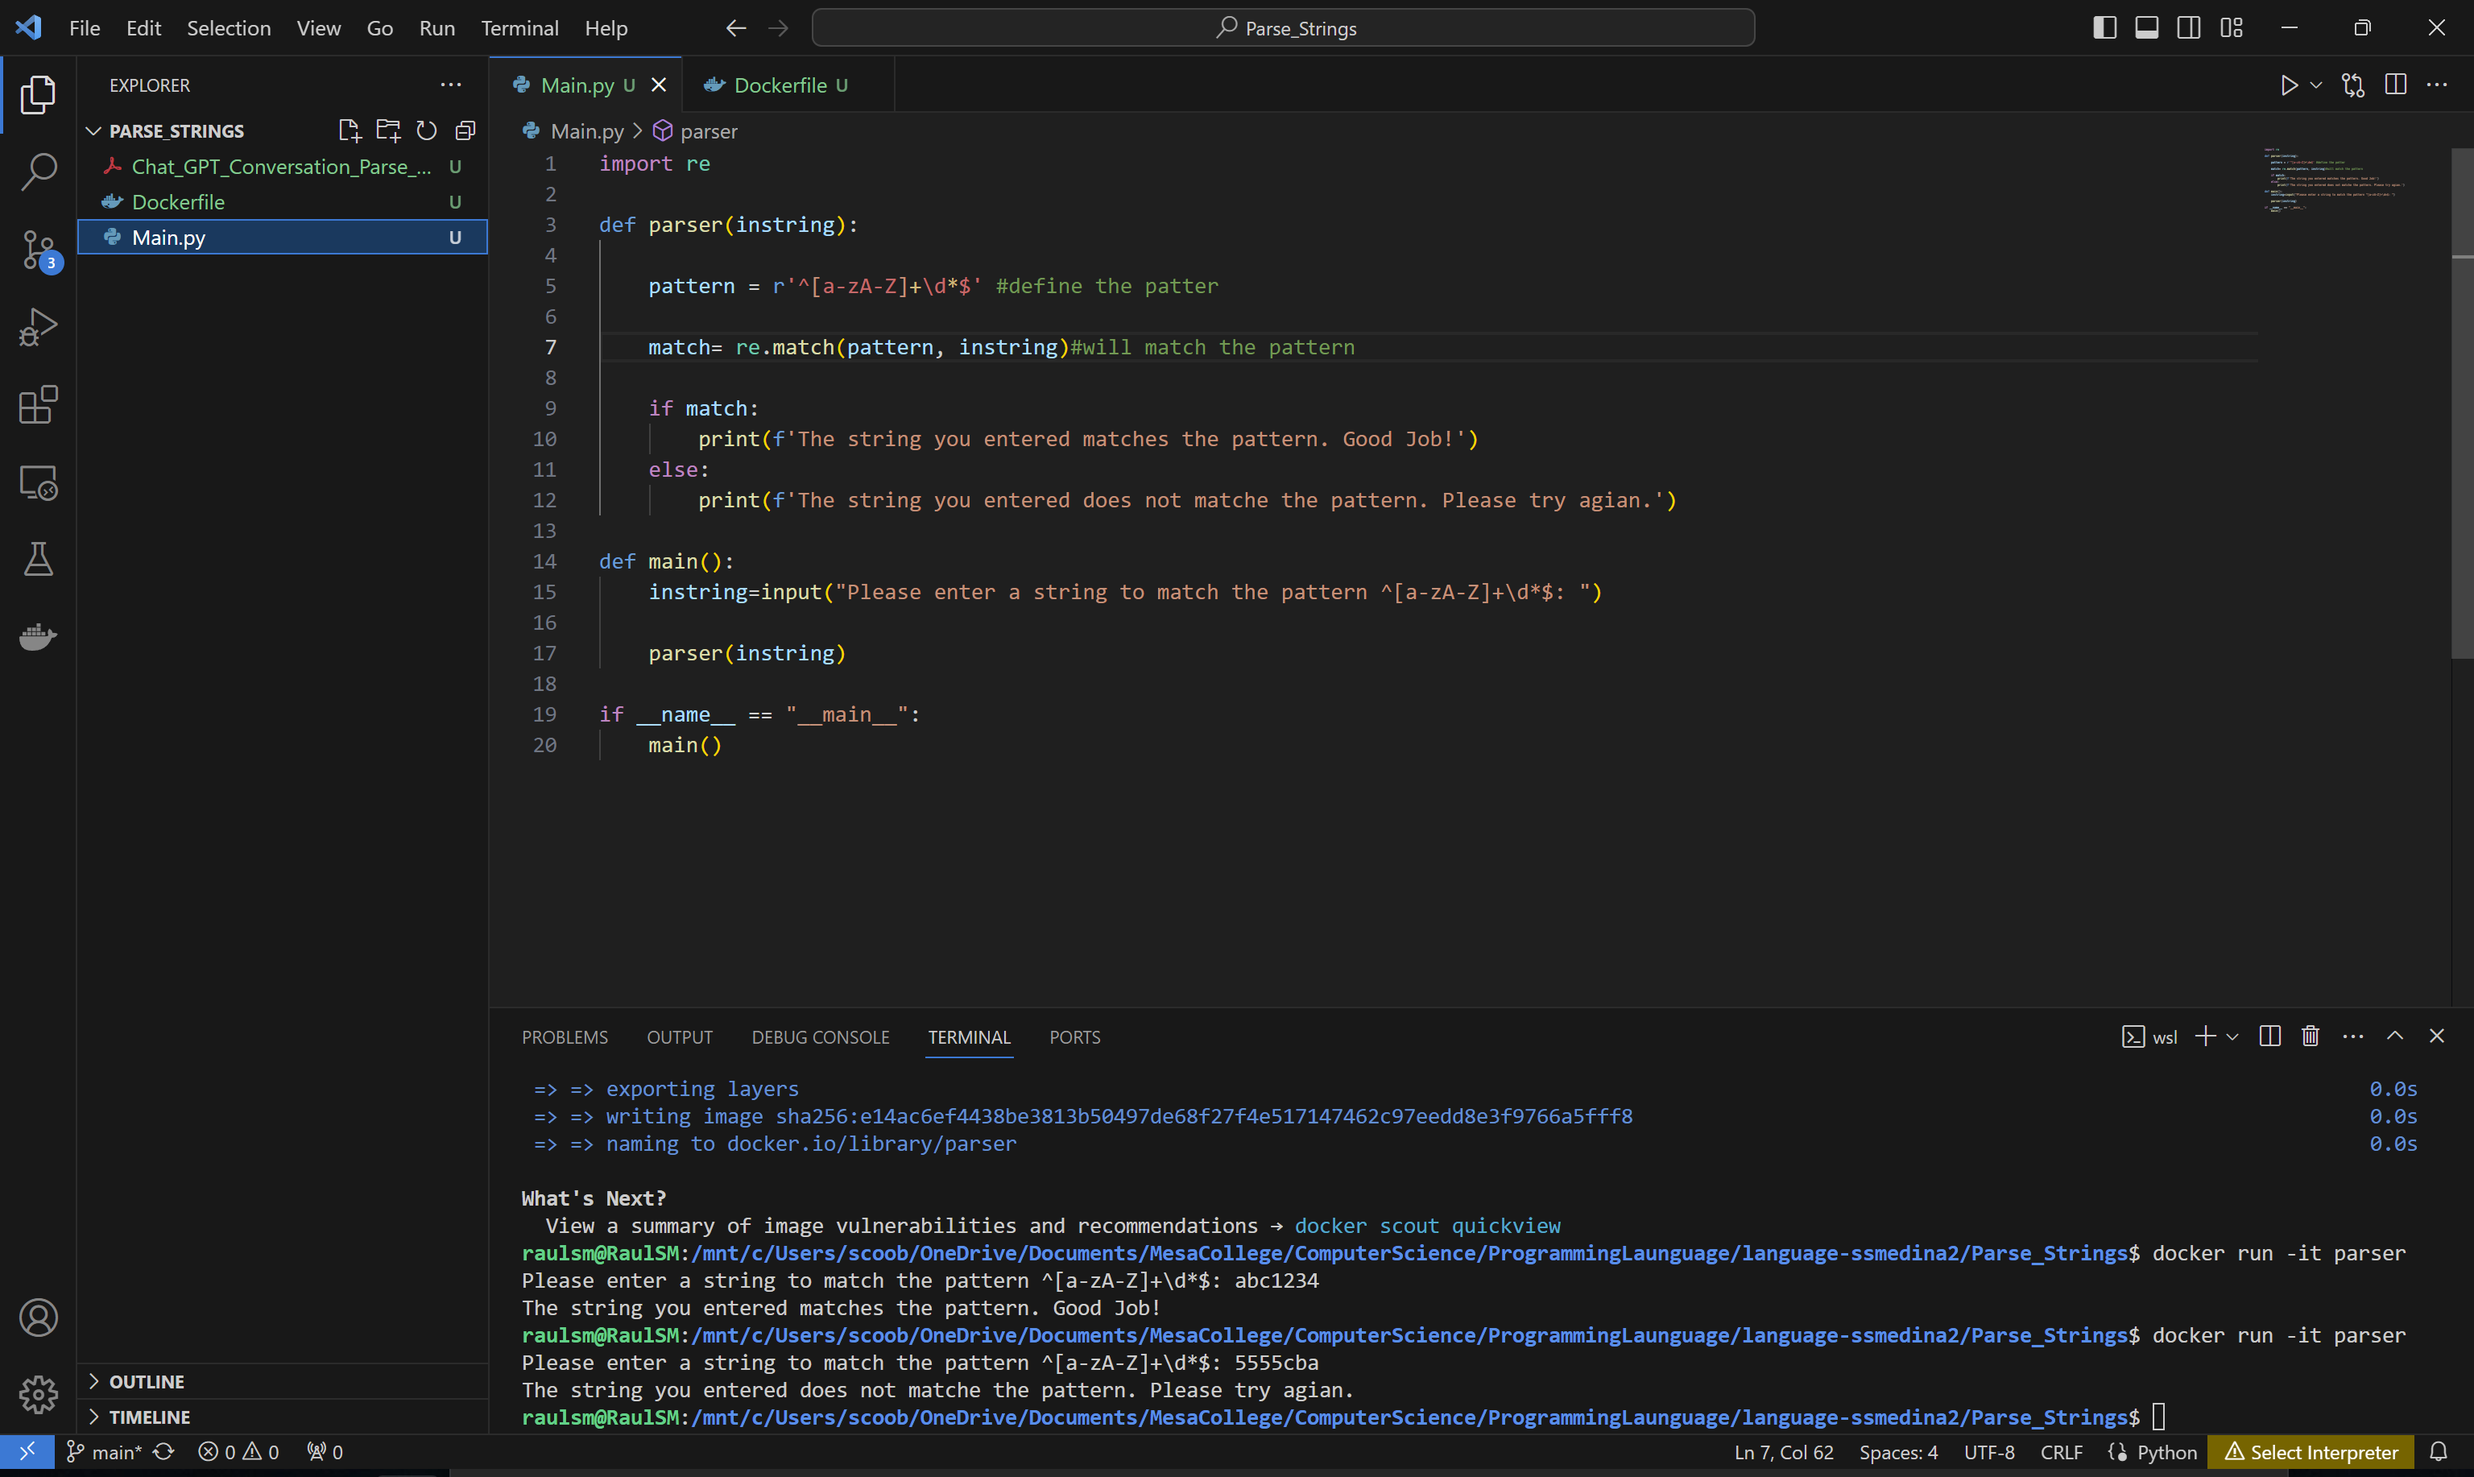
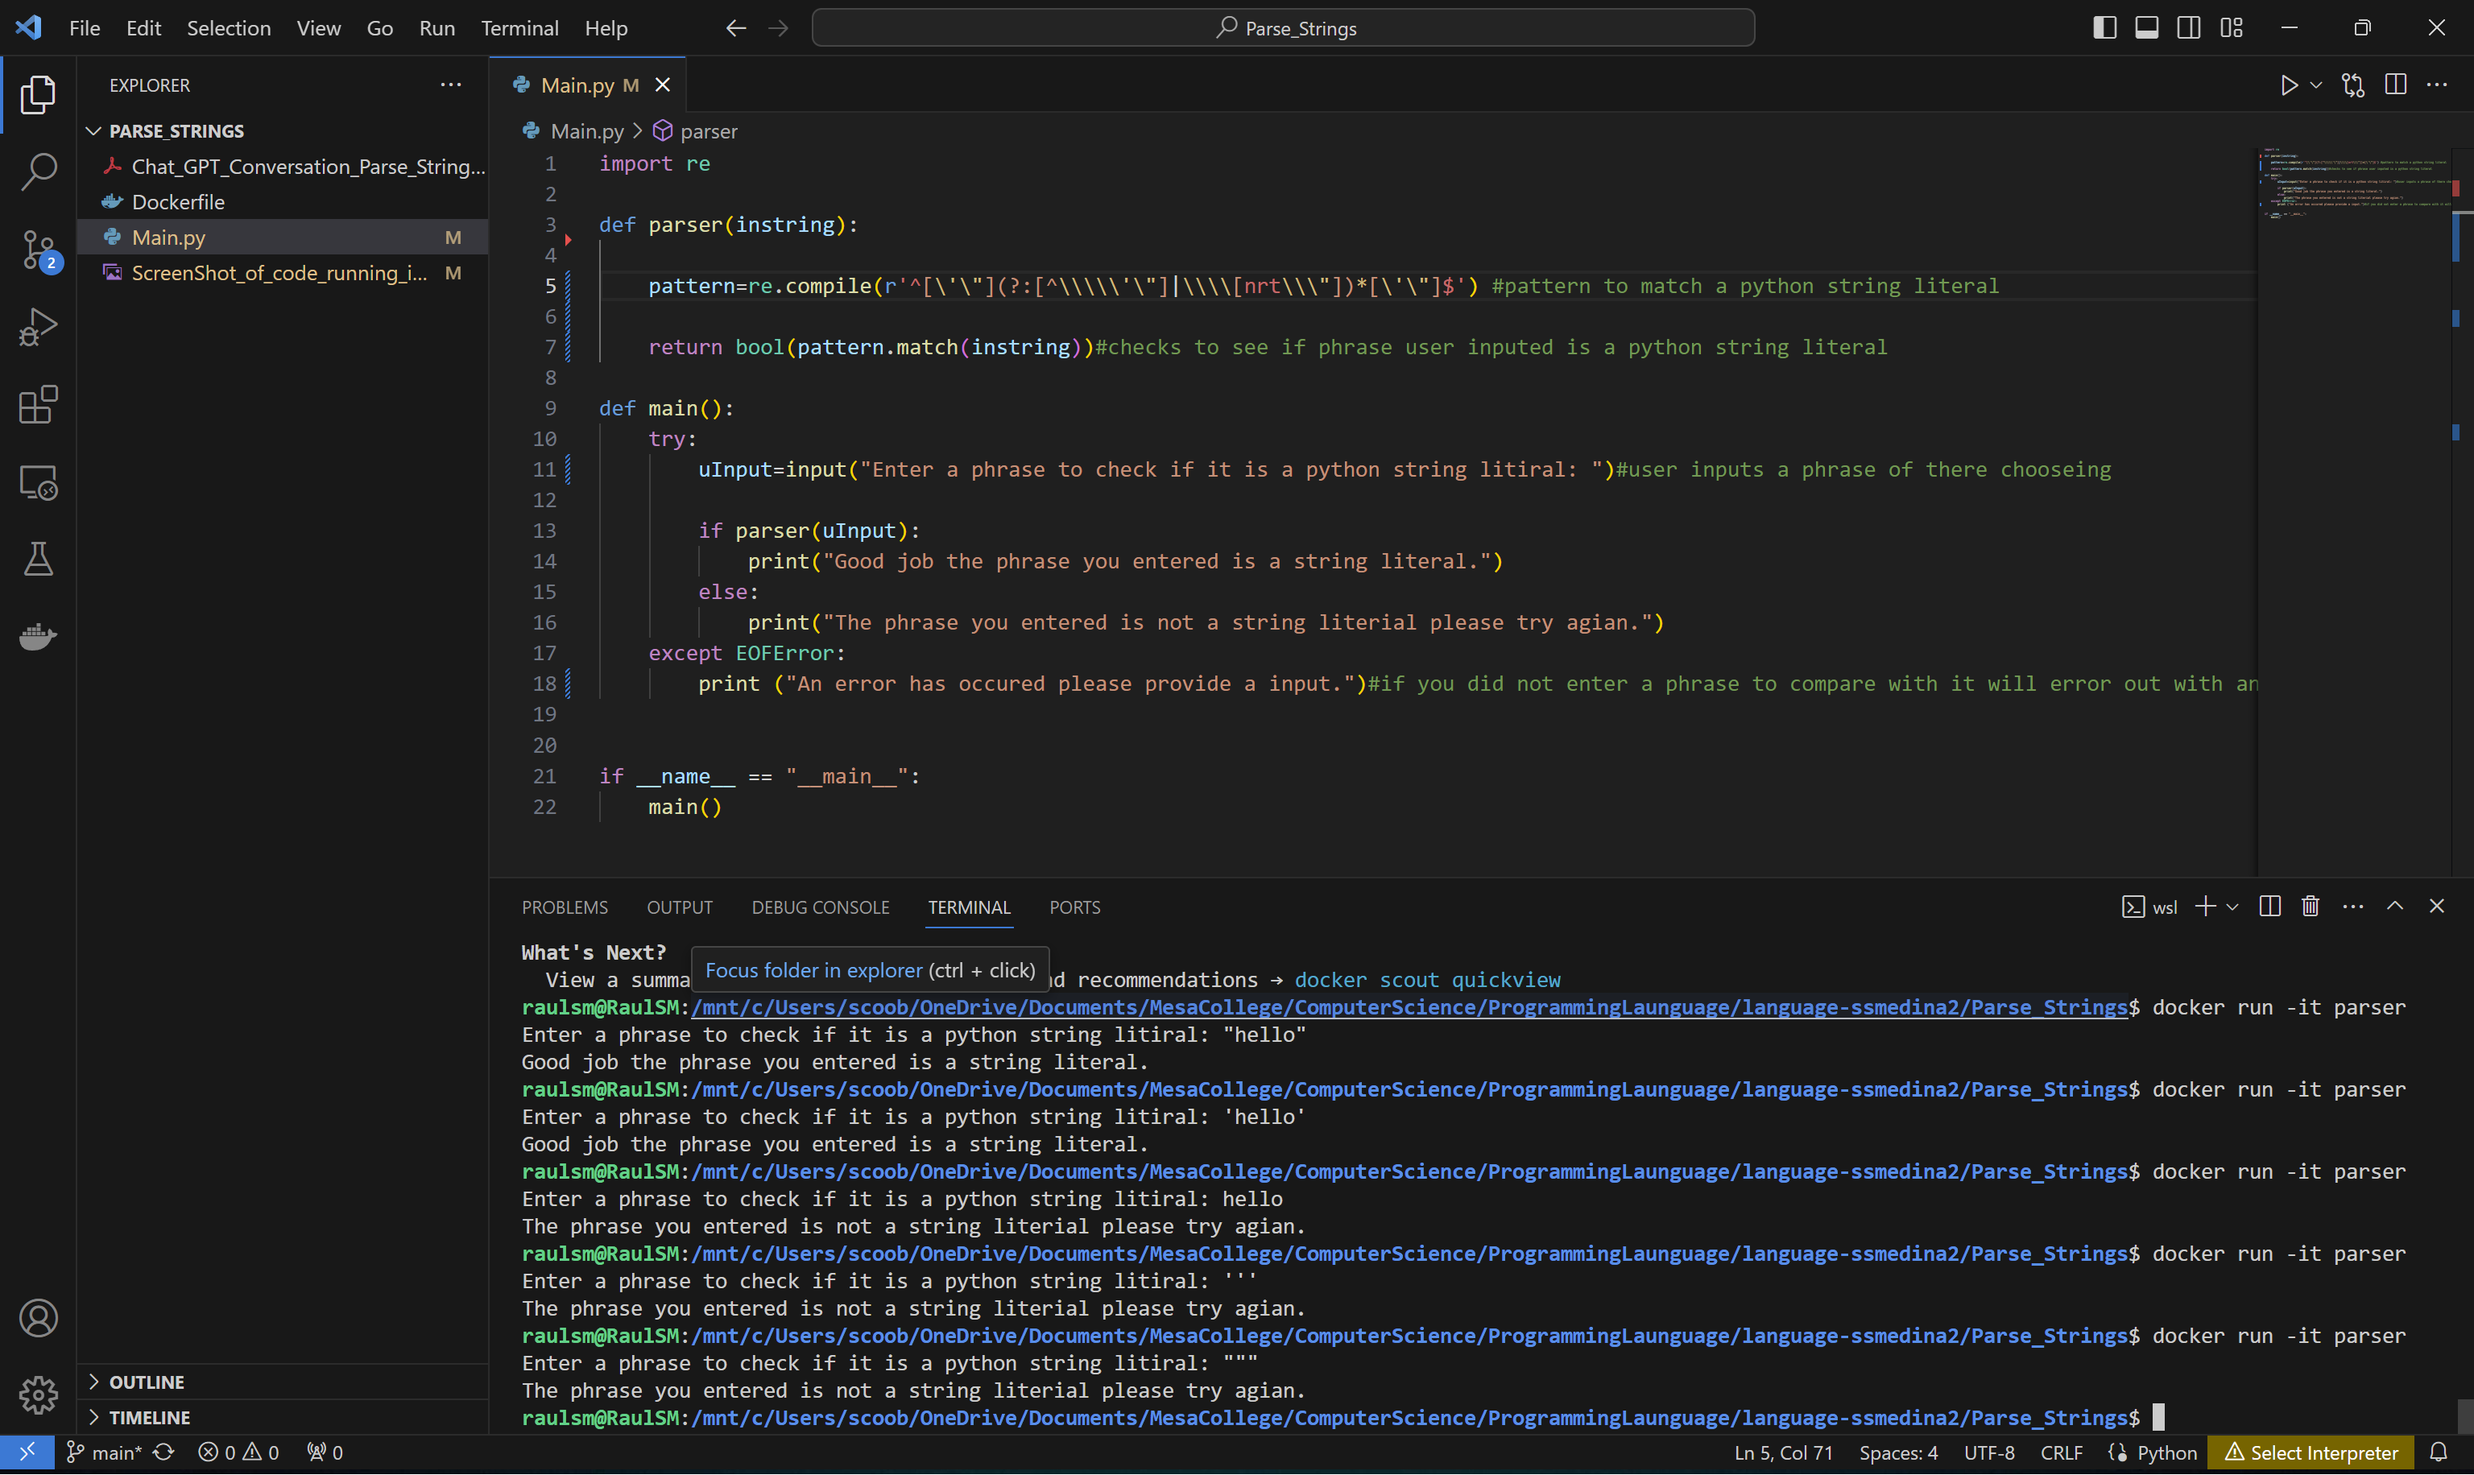
resumbiting

diff --git a/Parse_Strings/Main.py b/Parse_Strings/Main.py
@@ -1,26 +1,21 @@
 import re
 
 def parser(instring):
-    try:
-        literal_Python=eval(instring)
 
-        if isinstance(instring, str):
-            return True
-        else:
-            return False
-    except:
-        return False
+    pattern=re.compile(r'^[\'\"](?:[^\\\\\'\"]|\\\\[nrt\\\"])*[\'\"]$') #pattern to match a python string literal
+
+    return bool(pattern.match(instring))#checks to see if phrase user inputed is a python string literal
 
 def main():
     try:
-        uInput=input("Enter a phrase to check if it is a python string litiral: ")
+        uInput=input("Enter a phrase to check if it is a python string litiral: ")#user inputs a phrase of there chooseing
     
         if parser(uInput):
             print("Good job the phrase you entered is a string literal.")
         else:
             print("The phrase you entered is not a string literial please try agian.")
     except EOFError:
-        print ("An error has occured please provide a input.")
+        print ("An error has occured please provide a input.")#if you did not enter a phrase to compare with it will error out with an EOFError and tell you to put in a pharse.
 
 
 if __name__ == "__main__":
